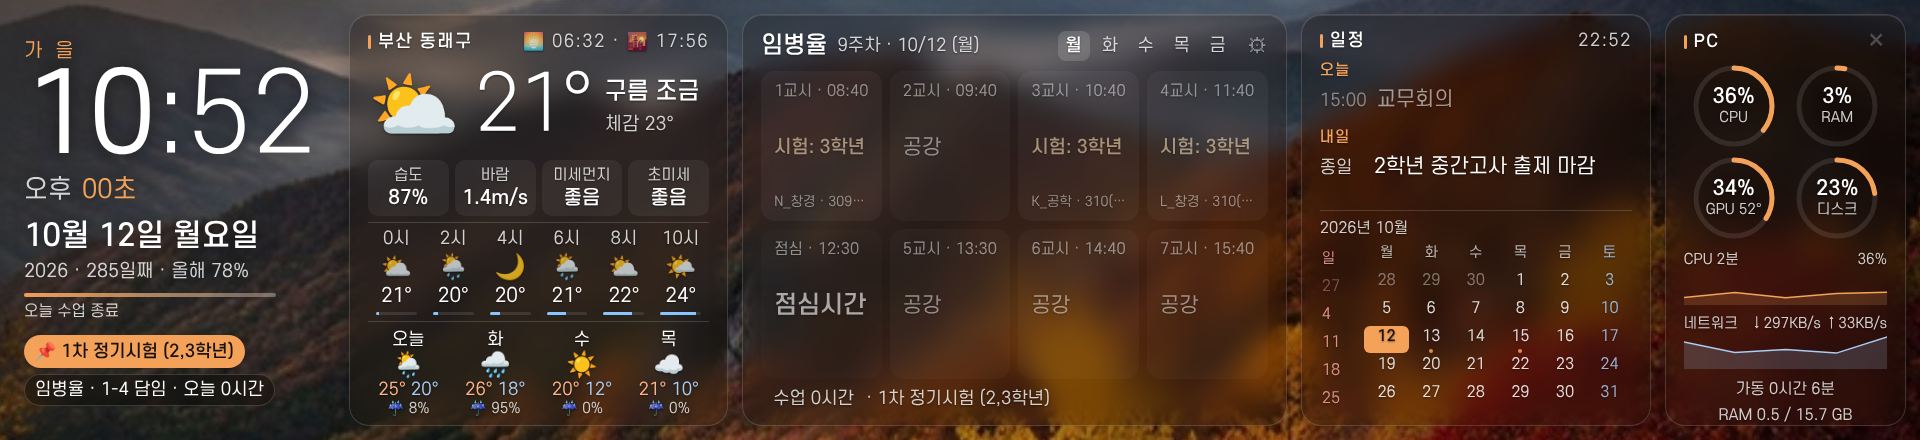
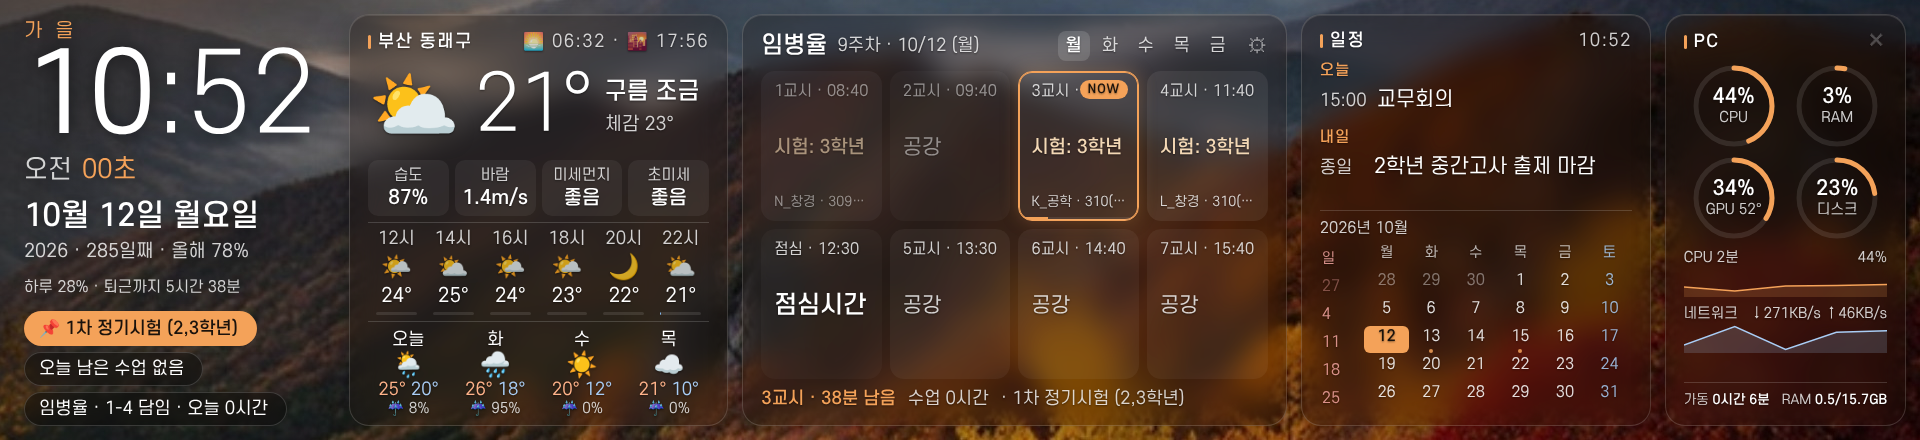
PC 패널 하단 정보줄 정리
Claude-Session: https://claude.ai/code/session_01QUPbRqurHMyWrBwvsguQbh

diff --git a/web/index.html b/web/index.html
@@ -124,7 +124,8 @@
   .ring .v { position: absolute; inset: 0; display: flex; flex-direction: column; align-items: center; justify-content: center; }
   .ring .v b { font-size: 20px; font-variant-numeric: tabular-nums; }
   .ring .v span { font-size: 14px; color: var(--muted); }
-  .net { font-size: 15px; color: var(--muted); line-height: 1.7; font-variant-numeric: tabular-nums; margin-top: 8px; text-align: center; }
+  #pcbody { display: flex; flex-direction: column; flex: 1; min-height: 0; }
+  .net { margin-top: auto; padding-top: 8px; border-top: 1px solid var(--line); display: flex; justify-content: space-between; gap: 8px; font-size: 15px; color: var(--muted); line-height: 1.4; font-variant-numeric: tabular-nums; white-space: nowrap; }
   .net b { color: var(--text); font-weight: 600; }
   /* 시계 아래 오늘 요약 */
   #todayBox { margin-top: 14px; display: flex; flex-direction: column; gap: 6px; text-shadow: none; }
@@ -145,9 +146,9 @@
   #cal .g .has::after { content: ""; position: absolute; left: 50%; bottom: 0; width: 4px; height: 4px; margin-left: -2px; border-radius: 50%; background: var(--accent); }
 
   /* PC 그래프 */
-  .spark { margin-top: 10px; }
+  .spark { margin-top: 8px; }
   .spark .lbl { display: flex; justify-content: space-between; font-size: 14px; color: var(--muted); margin-bottom: 2px; }
-  .spark svg { display: block; width: 100%; height: 34px; }
+  .spark svg { display: block; width: 100%; height: 28px; }
 
   /* 설정 */
   #gear { all: unset; cursor: pointer; font-size: 20px; opacity: .55; margin-left: 4px; }
@@ -465,7 +466,7 @@ async function loadSystem() {
   h += `<div class="spark"><div class="lbl"><span>CPU 2분</span><span>${Math.round(s.cpu)}%</span></div>${spark(hist.cpu, 100, 'var(--accent)')}</div>`;
   h += `<div class="spark"><div class="lbl"><span>네트워크</span><span>↓${speed(s.down)} ↑${speed(s.up)}</span></div>${spark(hist.net, nmax, '#a9cdf5')}</div>`;
   const up = s.uptime, ud = Math.floor(up / 86400), uh = Math.floor(up % 86400 / 3600), um = Math.floor(up % 3600 / 60);
-  h += `<div class="net">가동 ${ud ? ud + '일 ' : ''}${uh}시간 ${um}분<br>RAM ${s.ram_used} / ${s.ram_total} GB</div>`;
+  h += `<div class="net"><span>가동 <b>${ud ? ud + '일 ' : ''}${uh}시간 ${um}분</b></span><span>RAM <b>${s.ram_used}/${s.ram_total}GB</b></span></div>`;
   $('pcbody').innerHTML = h;
   if (window.onDataChange) onDataChange();
 }
